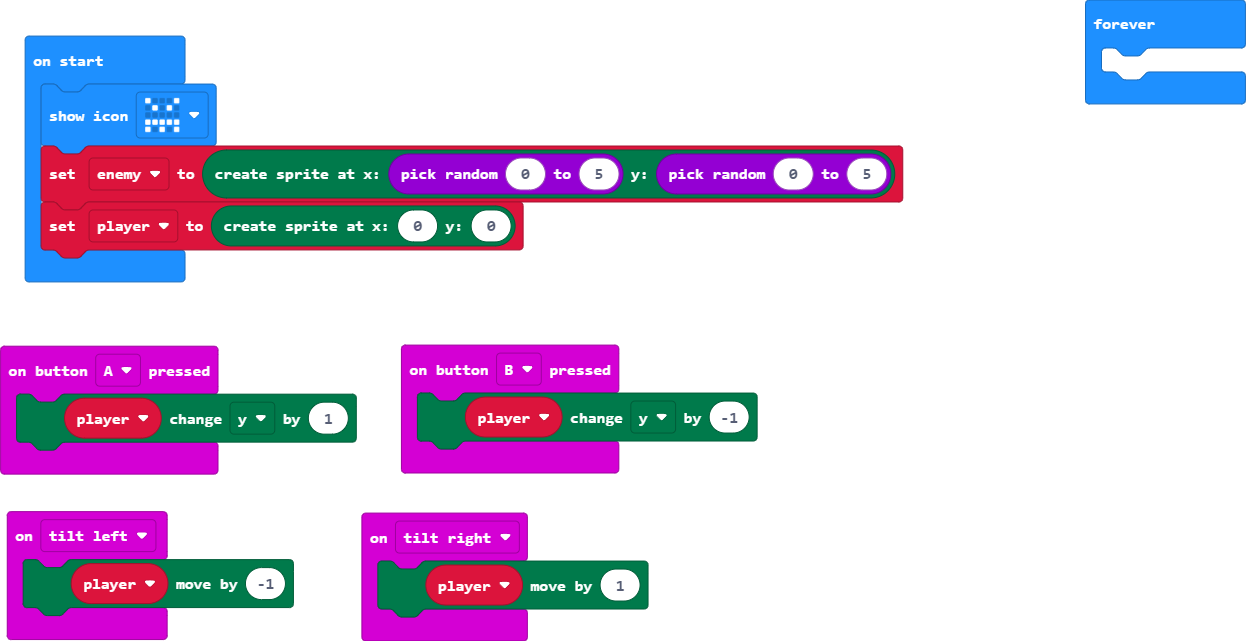
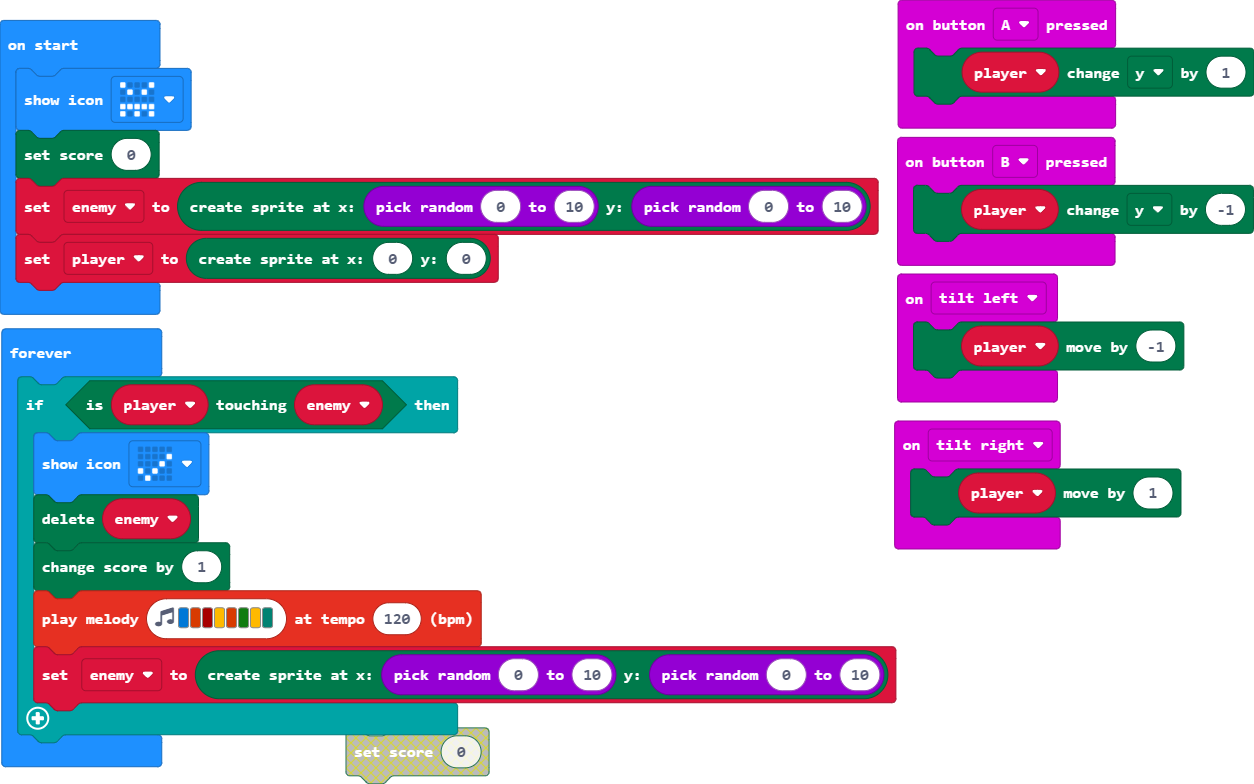
Update main.blocks, main.ts

diff --git a/main.ts b/main.ts
@@ -12,8 +12,15 @@ input.onGesture(Gesture.TiltRight, function () {
 })
 let player: game.LedSprite = null
 basic.showIcon(IconNames.Angry)
-let enemy = game.createSprite(randint(0, 5), randint(0, 5))
+game.setScore(0)
+let enemy = game.createSprite(randint(0, 10), randint(0, 10))
 player = game.createSprite(0, 0)
 basic.forever(function () {
-	
+    if (player.isTouching(enemy)) {
+        basic.showIcon(IconNames.Yes)
+        enemy.delete()
+        game.addScore(1)
+        music.playMelody("E B C5 A B G A F ", 120)
+        enemy = game.createSprite(randint(0, 10), randint(0, 10))
+    }
 })
